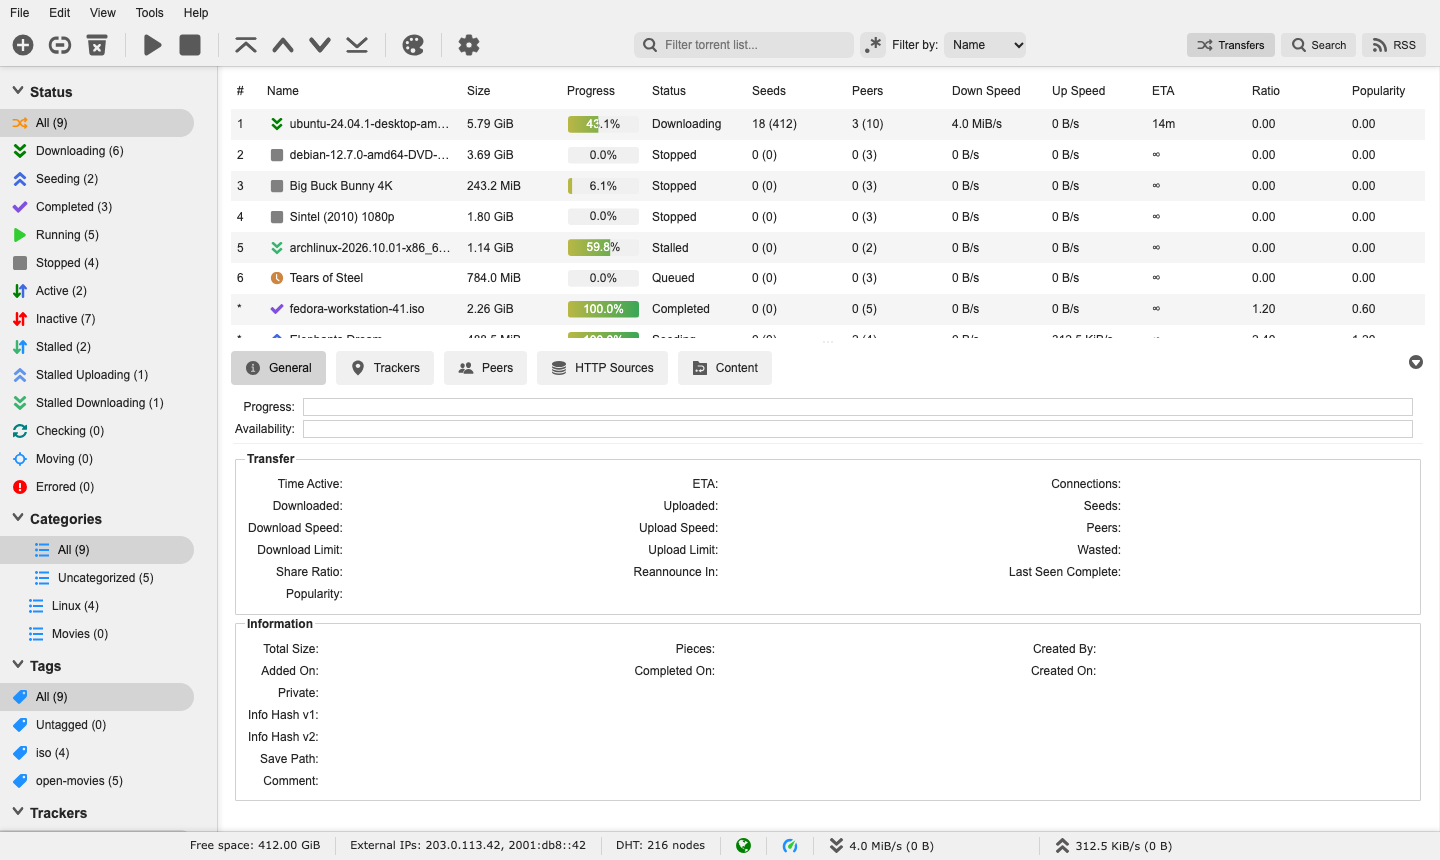
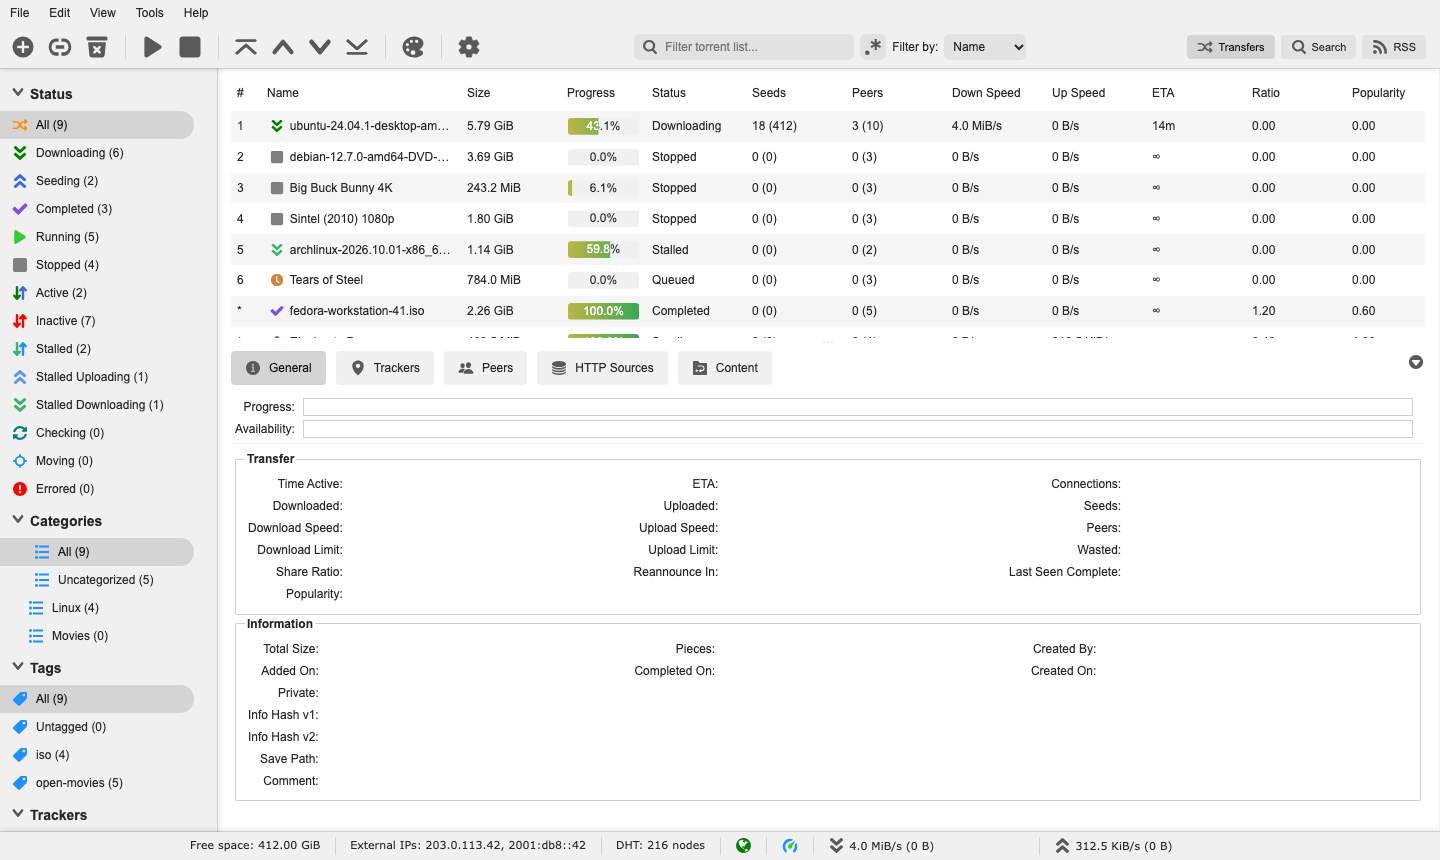
Even 8px padding above and below the toolbar
Screenshots retaken.

diff --git a/css/ezqbit.css b/css/ezqbit.css
@@ -162,7 +162,7 @@
     flex-wrap: wrap;
     gap: 5px;
     margin-top: 0;
-    padding: 6px 14px 8px 2px;
+    padding: 8px 14px 8px 2px;
 }
 
 /* The stock markup starts the toolbar with two non-breaking spaces, which would sit as an
